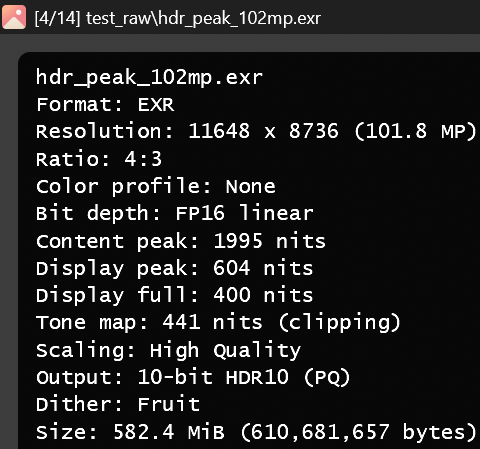
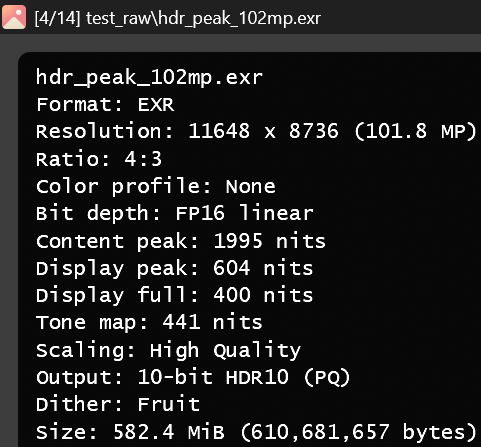
Drop the (clipping) suffix from the tone-map line
The overlay appended "(clipping)" whenever the content peak exceeded
the output target. But riv delegates tone mapping to the Direct2D HDR
tone map effect and only feeds it the input and output peak luminances.
How the effect maps content above the target is internal to it, so the
suffix asserted behavior that belongs to the effect rather than to riv.
The Content peak and Tone map values already convey the range reduction
on their own.

diff --git a/src/window/overlay.rs b/src/window/overlay.rs
@@ -385,13 +385,8 @@ pub fn build_info_text(
                 ));
             }
             if peak > color::SDR_REFERENCE_WHITE_NITS {
-                let clip = if peak > tone_map.output_target_nits {
-                    " (clipping)"
-                } else {
-                    ""
-                };
                 lines.push(format!(
-                    "Tone map: {:.0} nits{clip}",
+                    "Tone map: {:.0} nits",
                     tone_map.output_target_nits
                 ));
             }
@@ -867,8 +862,9 @@ mod info_text_tests {
         assert!(text.contains("Content peak: 1000 nits"), "{text}");
         assert!(text.contains("Display peak: 600 nits"));
         assert!(text.contains("Display full: 400 nits"));
-        // Content peak (1000) exceeds the target (500), so the map clips.
-        assert!(text.contains("Tone map: 500 nits (clipping)"));
+        // Content peak (1000) exceeds the target (500): tone mapping is active.
+        assert!(text.contains("Tone map: 500 nits"), "{text}");
+        assert!(!text.contains("clipping"), "{text}");
     }
 }
 